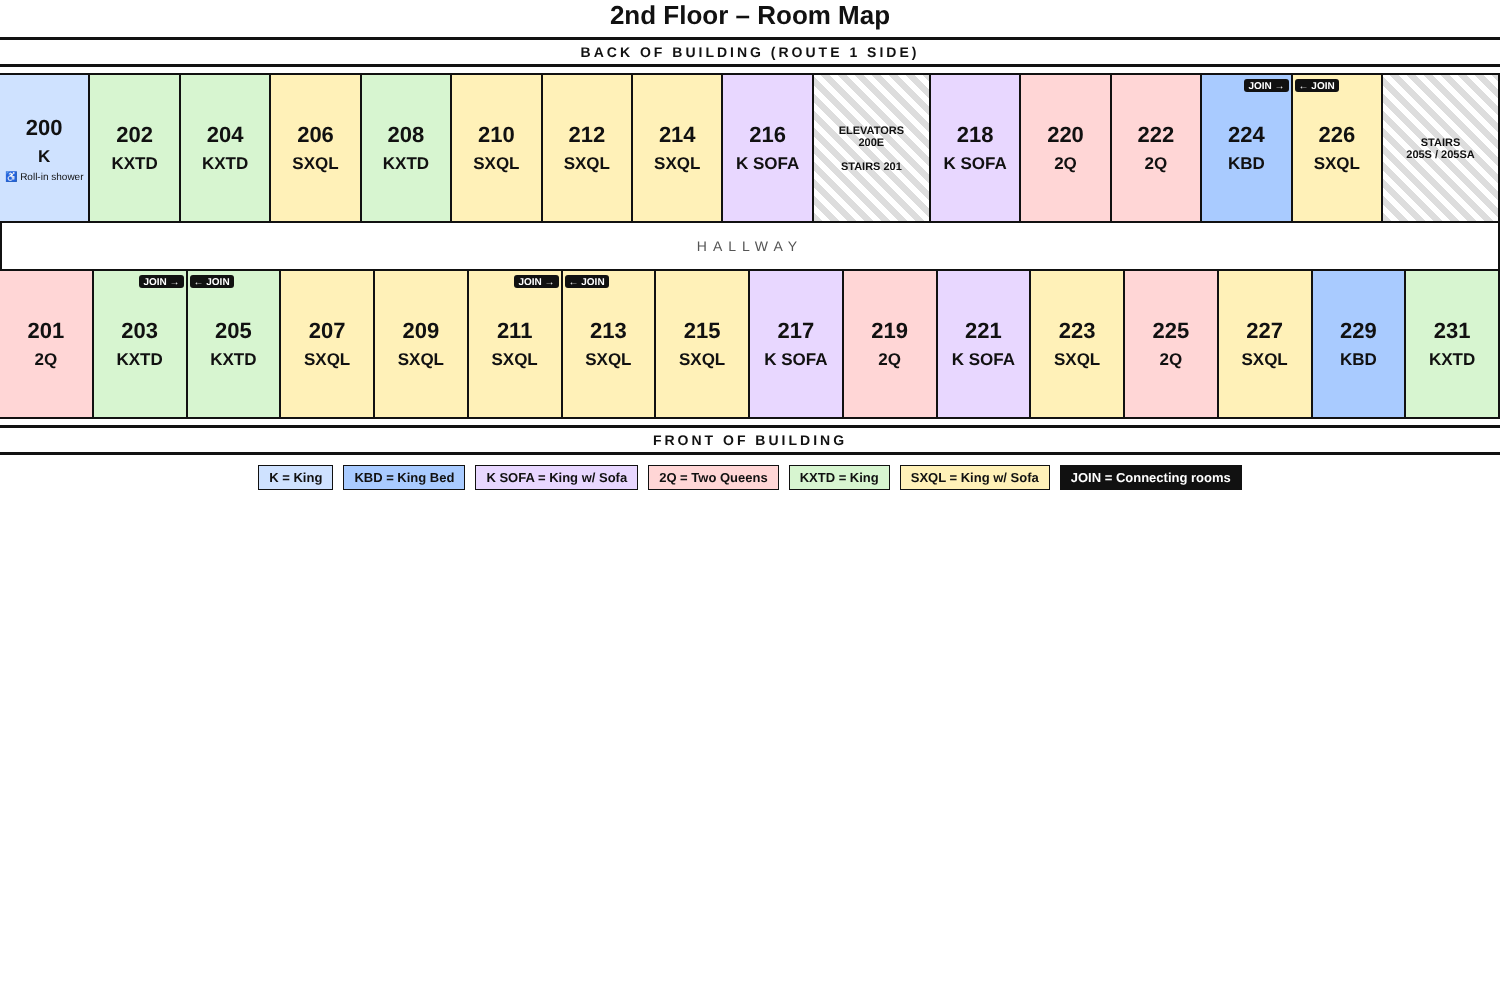
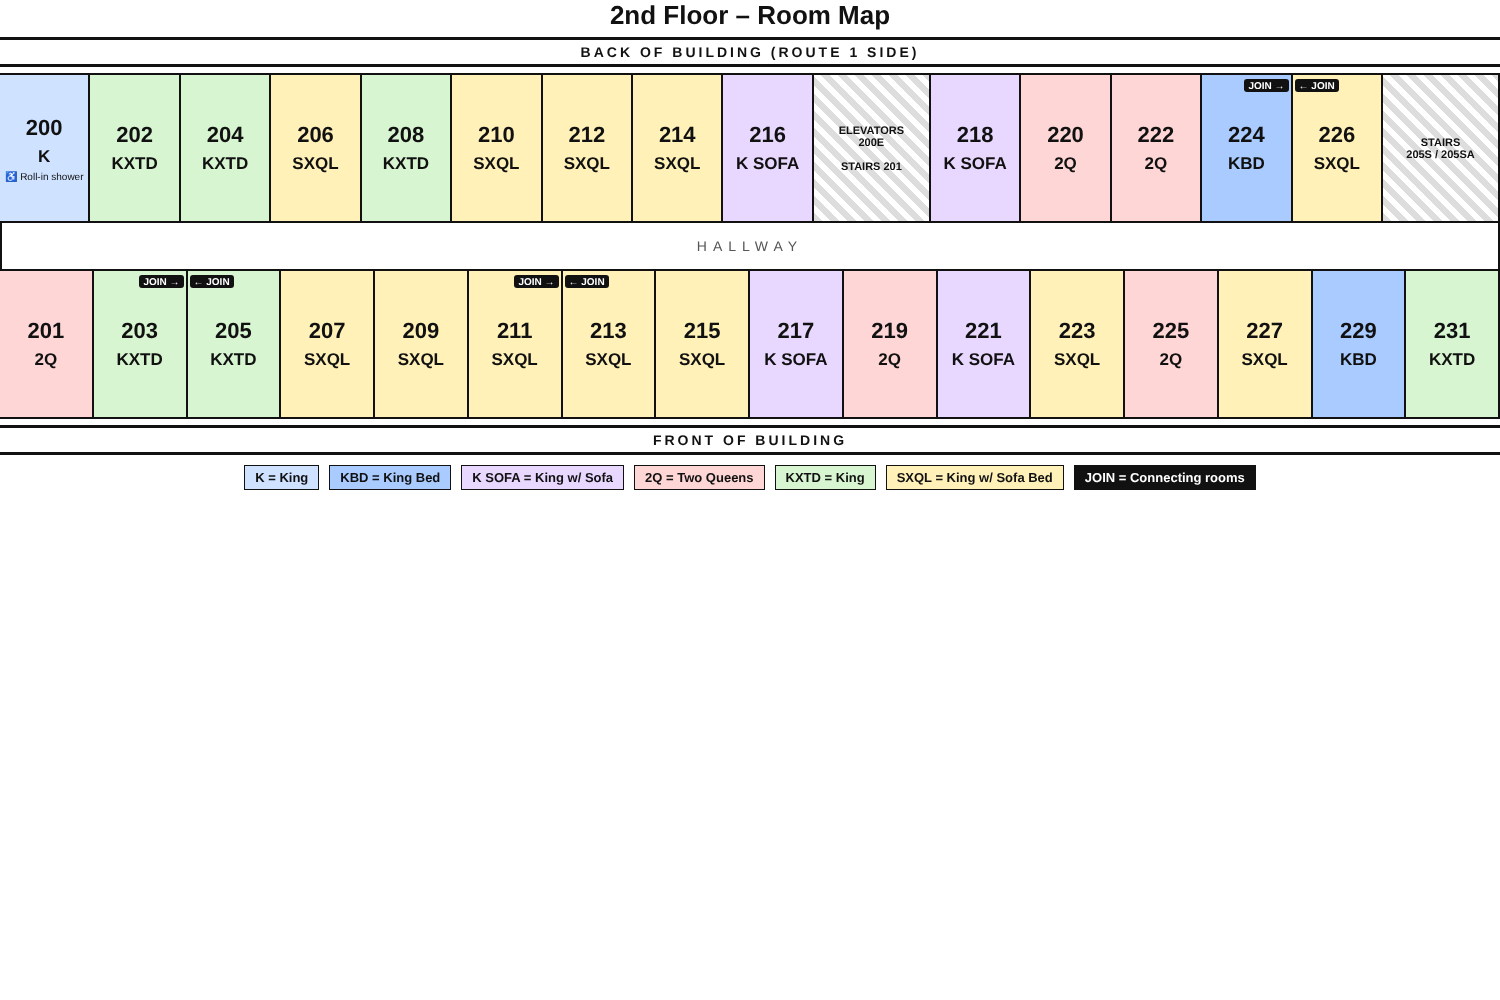
Legend: SXQL is king with sofa bed
Claude-Session: https://claude.ai/code/session_01VVtuZvAg5iqgUpEC5mHJcL

Changed region(s): [[0.1533, 0.465, 0.8587, 0.496]]

diff --git a/floor-map/floor2.html b/floor-map/floor2.html
@@ -59,7 +59,7 @@ h1{margin:0 0 4px;font-size:26px;text-align:center}
 <div class="side">FRONT OF BUILDING</div>
 <div class="legend">
  <span class="K">K = King</span><span class="KBD">KBD = King Bed</span><span class="KSOFA">K SOFA = King w/ Sofa</span>
- <span class="Q2">2Q = Two Queens</span><span class="KXTD">KXTD = King</span><span class="SXQL">SXQL = King w/ Sofa</span>
+ <span class="Q2">2Q = Two Queens</span><span class="KXTD">KXTD = King</span><span class="SXQL">SXQL = King w/ Sofa Bed</span>
  <span style="background:#111;color:#fff">JOIN = Connecting rooms</span>
 </div>
 </body></html>
